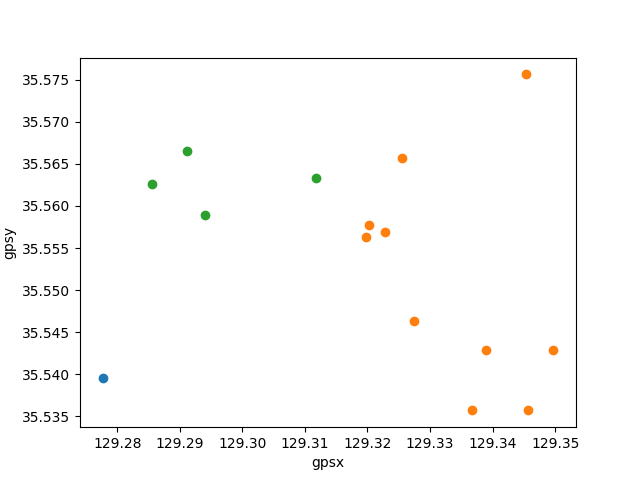
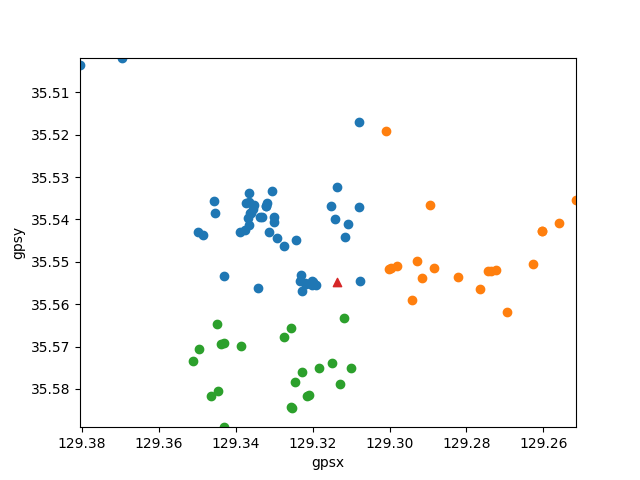
test complete

diff --git a/test_files/main.py b/test_files/main.py
@@ -3,9 +3,9 @@
 from sklearn.cluster import KMeans
 import matplotlib.pyplot as plt
 import numpy as np
-import json
+import math, json
 
-async def main():
+async def main(date: int = 3):
 
     with open("./test_files/result_sample.json", "r") as file:
         data = json.load(file)
@@ -34,17 +34,24 @@ async def main():
 
     print(gps)
 
-    plt.scatter(gps[:, 0], gps[:, 1])
-    plt.xlabel("gpsx")
-    plt.ylabel("gpsy")
-    plt.savefig("./test_files/figs/scatter_gps1.png")
+    xlim = (max(gps[:, 0]), min(gps[:, 0]))
+    ylim = (max(gps[:, 1]), min(gps[:, 1]))
+
+    # plt.scatter(gps[:, 0], gps[:, 1])
+    # plt.xlabel("gpsx")
+    # plt.ylabel("gpsy")
+    # plt.savefig("./test_files/figs/scatter_gps1.png")
 
     kmean = KMeans(
-        n_clusters=3, 
+        n_clusters=date, 
         random_state=42
     ).fit(gps)
 
     print(kmean.labels_)
+
+    center = (sum(kmean.cluster_centers_[:, 0]) / date, sum(kmean.cluster_centers_[:, 1]) / date)
+
+    print(center)
 
     labeled_gps = [[] for _ in range(3)]
     for idx, label in enumerate(kmean.labels_):
@@ -55,10 +62,36 @@ async def main():
         for i in range(3)
     ]
 
+    # for i in range(3):
+    #     plt.scatter(labeled_gps[i][:, 0], labeled_gps[i][:, 1])
+    # plt.scatter(center[0], center[1], marker="^")
+    # plt.xlim(xlim)
+    # plt.ylim(ylim)
+    # plt.xlabel("gpsx")
+    # plt.ylabel("gpsy")
+    # plt.savefig("./test_files/figs/labeled1.png")
+
+    def distance(center: tuple[float, float], arr: np.ndarray):
+        return np.sqrt((arr[:, 0] - center[0])**2 + (arr[:, 1] - center[1])**2)
+
+    # centerized_labeled_gps = []
+    # for elem in labeled_gps:
+    #     temp = elem[np.argsort(distance(center, elem))][:3]
+    #     centerized_labeled_gps.append(temp)
+
+    centerized_labeled_gps = []
+    for idx, elem in enumerate(labeled_gps):
+        temp = elem[np.argsort(distance(kmean.cluster_centers_[idx], elem))][:3]
+        centerized_labeled_gps.append(temp)
+
     for i in range(3):
-        plt.scatter(labeled_gps[i][:, 0], labeled_gps[i][:, 1])
+        plt.scatter(centerized_labeled_gps[i][:, 0], centerized_labeled_gps[i][:, 1])
+    plt.scatter(center[0], center[1], marker="^")
+    plt.xlim(xlim)
+    plt.ylim(ylim)
     plt.xlabel("gpsx")
     plt.ylabel("gpsy")
-    plt.savefig("./test_files/figs/labeled1.png")
+    plt.savefig("./test_files/figs/labeled3.png")
+
 
     return
